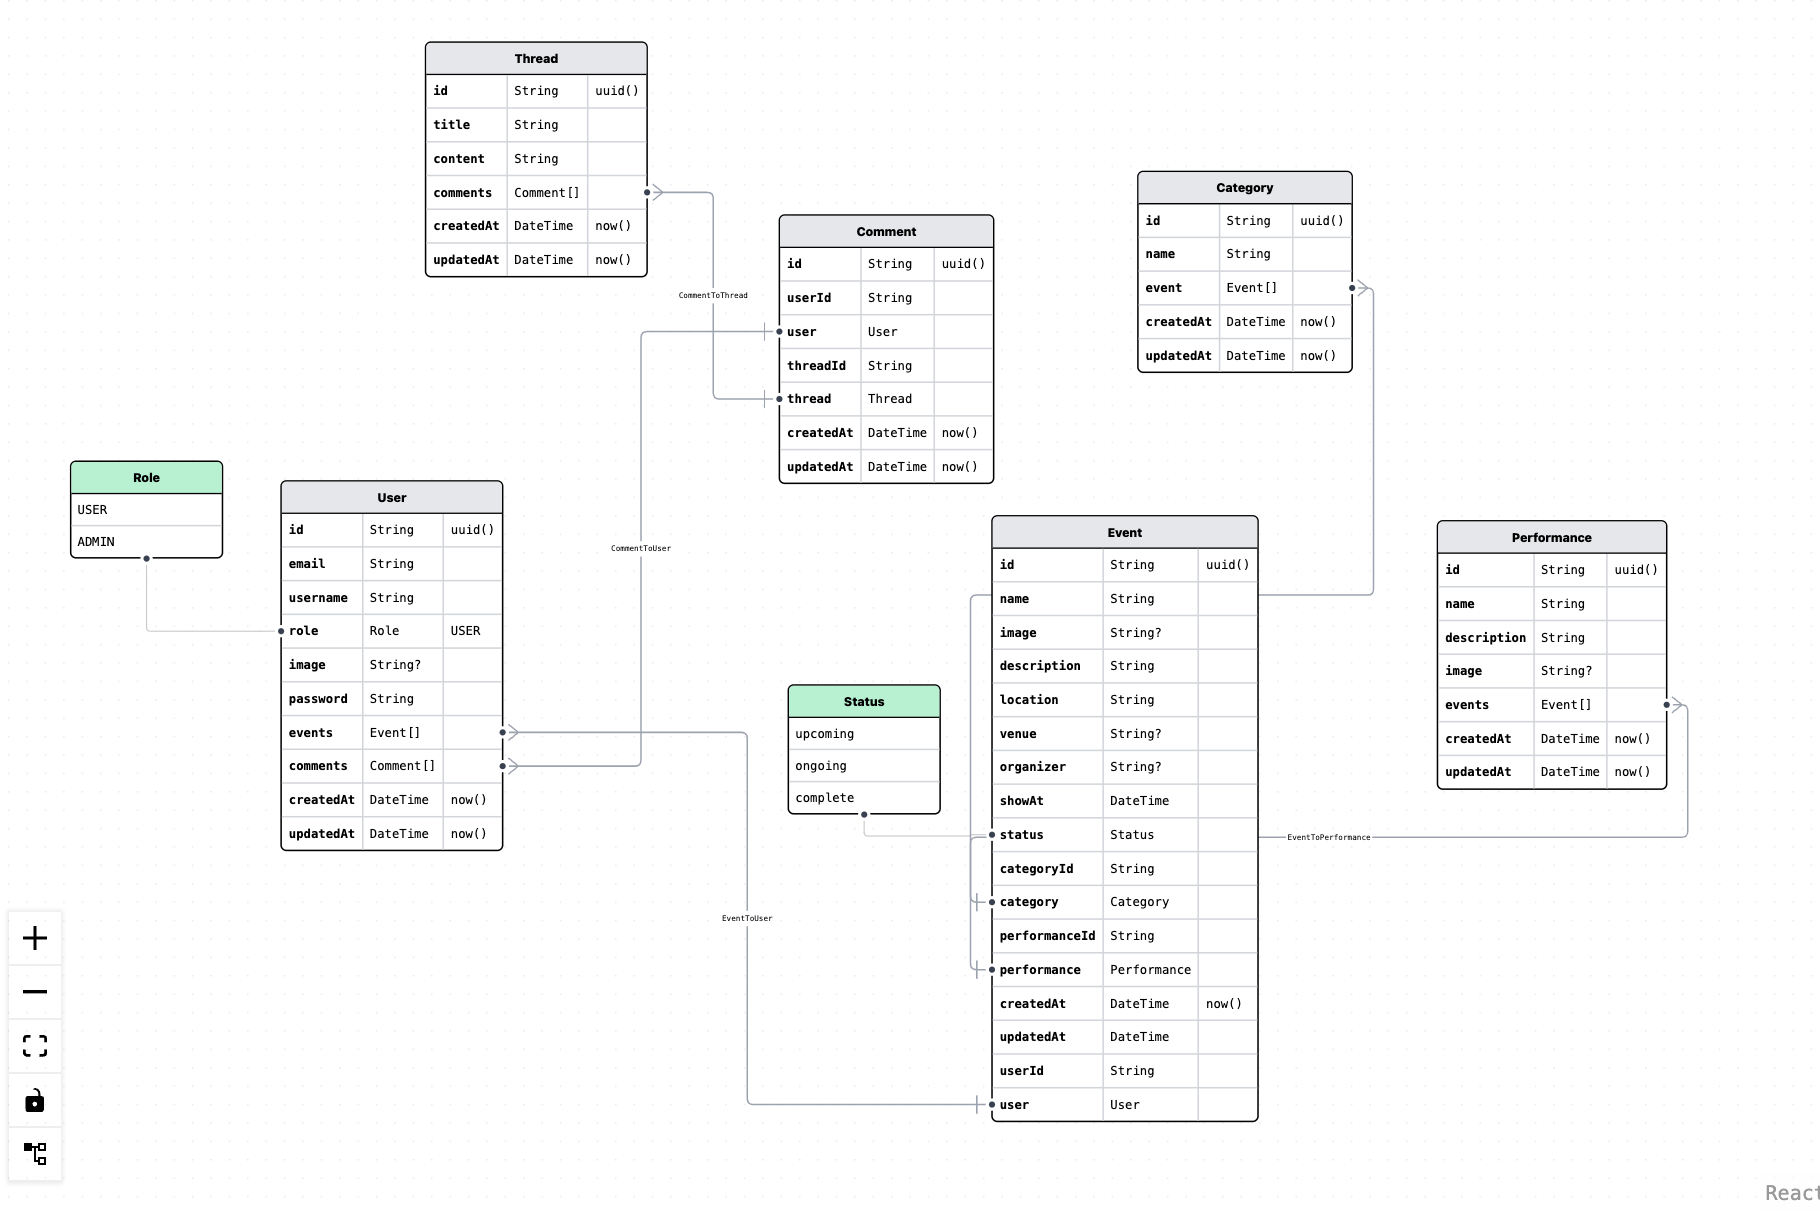
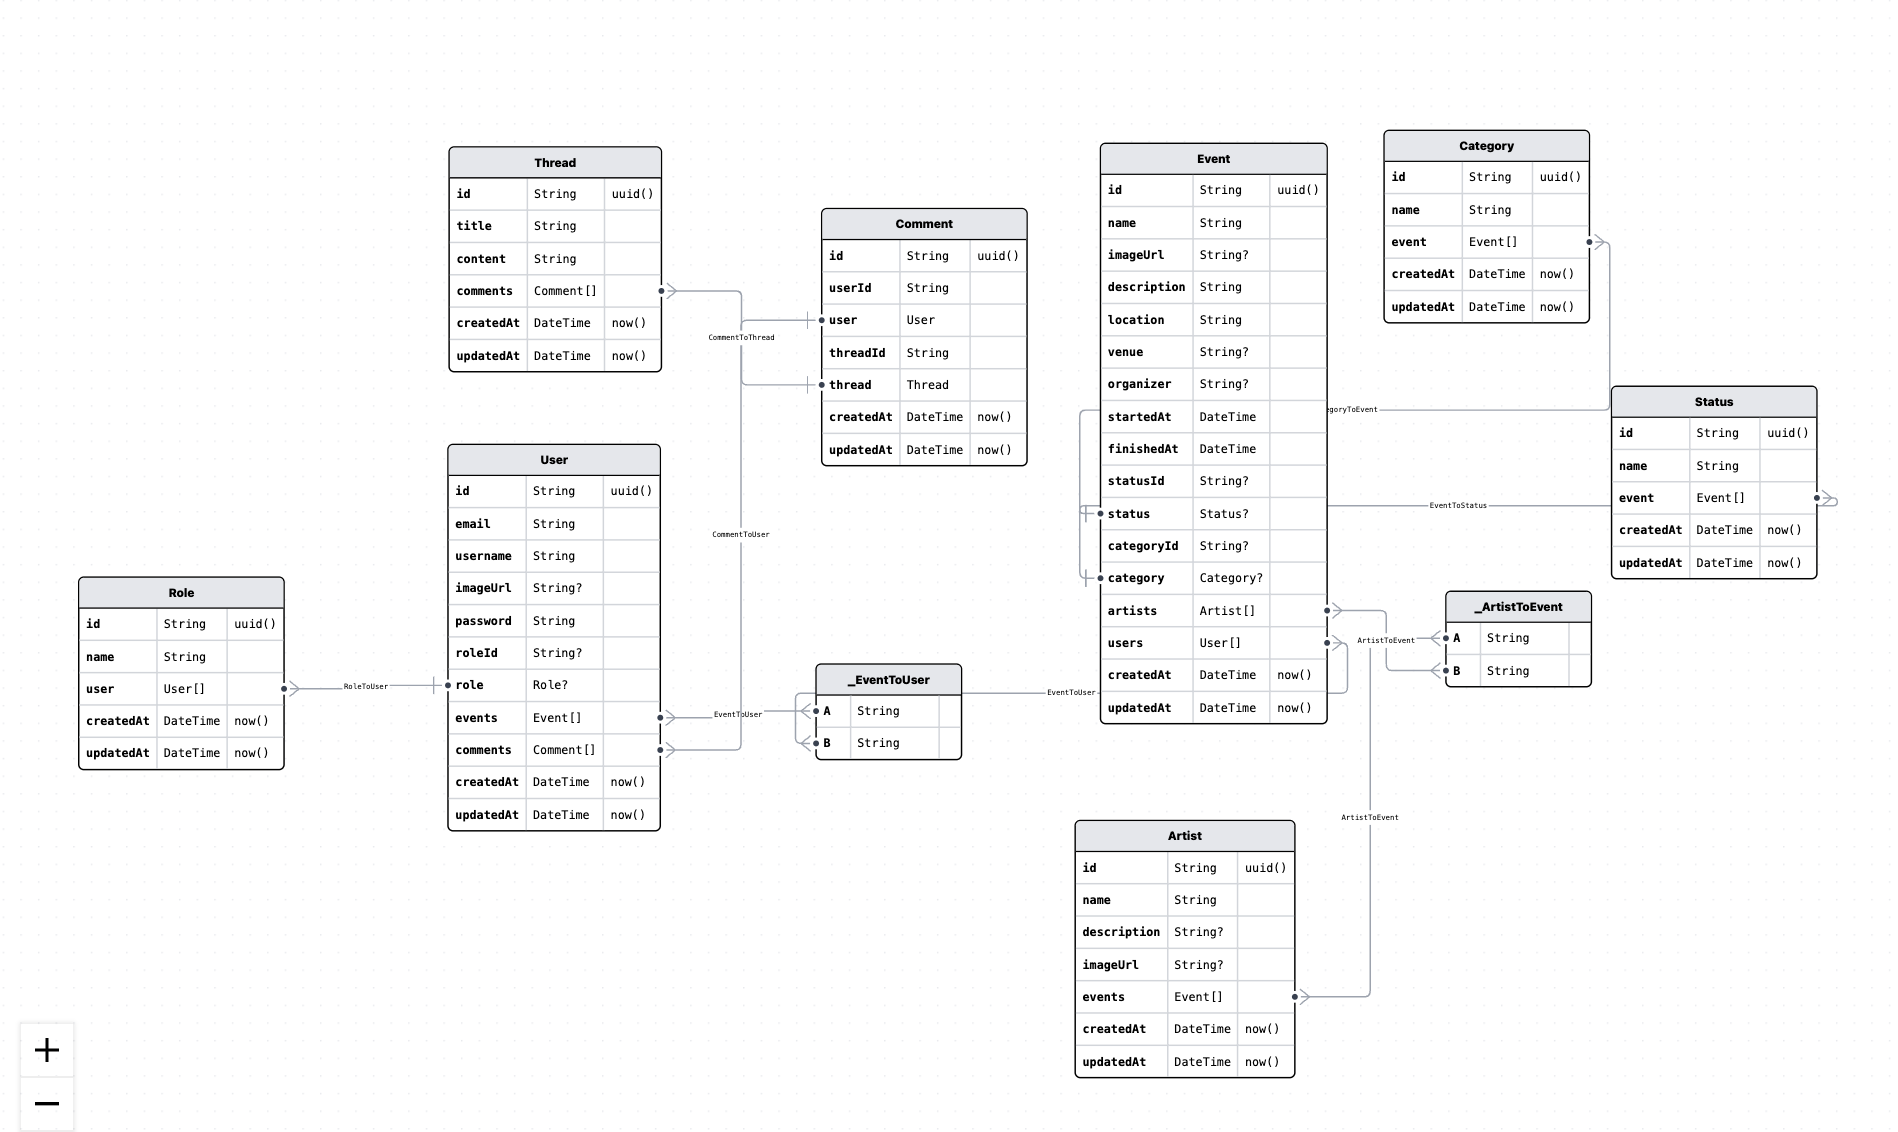
update readme

diff --git a/README.md b/README.md
@@ -5,6 +5,8 @@ An Event Tracker platform offers simplicity and user-friendliness. Our platform 
 !!! NOTE !!!
 we are using our custom organization repo.. you can check our progress below.
 
+![](/assets/branding-aspects.png)
+
 Check out:
 
 - Web:
@@ -18,9 +20,30 @@ Check out:
 
 1. Figma : https://www.figma.com/file/wkys7TpKtRP2AcoYXtDvZo/FEASTIVAL?type=design&node-id=0-1&mode=design&t=RzWDwlGkI0PgVU4h-0
 
+## Our Members
+
+| Name                                                | Role                      |
+| :-------------------------------------------------- | :------------------------ |
+| [Dandi Rizky](https://github.com/DandiRizkyy)       | Lead & Frontend Developer |
+| [Indra Setiadhi](https://github.com/indrasetiadhi4) | Backend Developer         |
+| [Mesel Ghea](https://github.com/meselghea)          | Frontend Developer        |
+| [Niken Hapsari](https://github.com/nikenhpsr)       | Backend Developer         |
+| [Okky Anggoro](https://github.com/anggr)            | Frontend Developer        |
+
 ## Concept
 
-🎉 FEASTIVAL allow to:
+🎉 FEASTIVAL allows:
+
+- Visitors to create an account.
+- Visitors to add their profile photos. - (optional)
+- Visitors to search music concerts by concert names or cities.
+- Visitors to view upcoming and ongoing music concerts in this month.
+- Visitors to read artist profiles.
+- Visitor to read detail music concerts.
+- Logged-in visitors to add concert reminders for the music concerts they want to attend.
+- Logged-in visitors to view the music concerts they have attended and will attend in "My Profile".
+- Logged-in visitors to delete reminder history if they decide not to attend a concert or have already attended it.
+- Logged-in visitors to create threads and comment on threads in the community.
 
 ## Data Model
 
@@ -40,51 +63,53 @@ model User {
   id       String  @id @default(uuid())
   email    String  @unique
   username String  @unique
-  role     Role    @default(USER)
-  image    String?
+  imageUrl String?
   password String
+
+  roleId   String?
+  role     Role? @relation(fields: [roleId], references: [id])
 
   events   Event[]
   comments Comment[]
 
   createdAt DateTime @default(now())
-  updatedAt DateTime @default(now())
+  updatedAt DateTime @default(now()) @updatedAt
 }
 
-model Performance {
+model Artist {
   id          String  @id @default(uuid())
   name        String  @unique
-  description String
-  image       String?
+  description String?
+  imageUrl    String?
 
   events Event[]
 
   createdAt DateTime @default(now())
-  updatedAt DateTime @default(now())
+  updatedAt DateTime @default(now()) @updatedAt
 }
 
 model Event {
   id          String   @id @default(uuid())
   name        String
-  image       String?
+  imageUrl    String?
   description String
   location    String
   venue       String?
   organizer   String?
-  showAt      DateTime
-  status      Status
+  startedAt   DateTime
+  finishedAt  DateTime
 
-  categoryId String
-  category   Category @relation(fields: [categoryId], references: [id])
+  statusId String?
+  status   Status? @relation(fields: [statusId], references: [id])
 
-  performanceId String
-  performance   Performance @relation(fields: [performanceId], references: [id])
+  categoryId String?
+  category   Category? @relation(fields: [categoryId], references: [id])
+
+  artists Artist[]
+  users   User[]
 
   createdAt DateTime @default(now())
-  updatedAt DateTime @updatedAt
-
-  userId String
-  user   User   @relation(fields: [userId], references: [id])
+  updatedAt DateTime @default(now()) @updatedAt
 }
 
 model Thread {
@@ -95,7 +120,7 @@ model Thread {
   comments Comment[]
 
   createdAt DateTime @default(now())
-  updatedAt DateTime @default(now())
+  updatedAt DateTime @default(now()) @updatedAt
 }
 
 model Comment {
@@ -108,7 +133,7 @@ model Comment {
   thread   Thread @relation(fields: [threadId], references: [id])
 
   createdAt DateTime @default(now())
-  updatedAt DateTime @default(now())
+  updatedAt DateTime @default(now()) @updatedAt
 }
 
 model Category {
@@ -116,25 +141,26 @@ model Category {
   name      String   @unique
   event     Event[]
   createdAt DateTime @default(now())
-  updatedAt DateTime @default(now())
+  updatedAt DateTime @default(now()) @updatedAt
 }
 
-enum Role {
-  USER
-  ADMIN
+model Role {
+  id        String   @id @default(uuid())
+  name      String   @unique
+  user      User[]
+  createdAt DateTime @default(now())
+  updatedAt DateTime @default(now()) @updatedAt
 }
 
-enum Status {
-  upcoming
-  ongoing
-  complete
+model Status {
+  id        String   @id @default(uuid())
+  name      String   @unique
+  event     Event[]
+  createdAt DateTime @default(now())
+  updatedAt DateTime @default(now()) @updatedAt
 }
-
-
 
 ```
-
-## Getting Started
 
 ## Tech Stack
 
@@ -145,8 +171,8 @@ enum Status {
 - NestJs : Framework
 - PostgreSQL : Database management system
 - Prisma ORM : Database ORM
-- DigitalOcean : Api deployment
-- Railway : Api deployment
+- DigitalOcean : Database deployment
+- Render : Api deployment
 - REST API
 - Swagger
 
@@ -160,8 +186,6 @@ enum Status {
 - React : UI library
 - Axios : fetching api
 - Vercel : App deployment
-
-## Setup
 
 ## References
 
